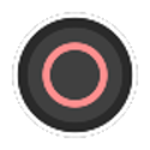
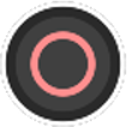
pointers

diff --git a/client/js/raceControls.js b/client/js/raceControls.js
@@ -25,32 +25,32 @@ class RaceControls{
             
             this.accelerationBtn.on('pointerdown', ()=>{
                 player.body.acceleration.setToPolar(player.rotation, 100);
-                this.accelerationBtn.setAlpha(0.5)
+                this.accelerationBtn.setAlpha(0.4)
             })
             this.accelerationBtn.on('pointerup', ()=>{
                 player.setAcceleration(0);
                 player.body.setDrag(0.9);
-                this.accelerationBtn.setAlpha(0.9)
+                this.accelerationBtn.setAlpha(0.7)
             })
             this.accelerationBtn.on('pointerout', ()=>{
                 player.setAcceleration(0);
                 player.body.setDrag(0.9);
-                this.accelerationBtn.setAlpha(0.9)
+                this.accelerationBtn.setAlpha(0.7)
             })
             button2.on('pointerdown', () =>{
                 player.setAcceleration(0)
                 player.body.setDrag(0.3);
-                button2.setAlpha(0.5)
+                button2.setAlpha(0.4)
             })
             button2.on('pointerup', ()=>{
                 player.setAcceleration(0);
                 player.body.setDrag(0.9);
-                button2.setAlpha(0.9)
+                button2.setAlpha(0.7)
             })
             button2.on('pointerout', ()=>{
                 player.setAcceleration(0);
                 player.body.setDrag(0.9);
-                button2.setAlpha(0.9)
+                button2.setAlpha(0.7)
             })
         }else{
 

diff --git a/client/js/singleTimeTrail.js b/client/js/singleTimeTrail.js
@@ -53,8 +53,8 @@ class SingleTimeTrail extends Phaser.Scene{
             })
             this.pointer2= this.input.addPointer()
             this.pointer3= this.input.addPointer()
-            this.accelerationBtn= this.add.image(w-190, h-100, 'singleTimeTrailPs4CrossBtn').setOrigin(0.5).setInteractive().setScrollFactor(0).setAlpha(0.9);
-            this.breakBtn= this.add.image(w-100, h-200, 'singleTimeTrailPs4CircleBtn').setOrigin(0.5).setInteractive().setScrollFactor(0).setAlpha(0.9);
+            this.accelerationBtn= this.add.image(w-190, h-75, 'singleTimeTrailPs4CrossBtn').setOrigin(0.5).setInteractive().setScrollFactor(0).setAlpha(0.7);
+            this.breakBtn= this.add.image(w-80, h-210, 'singleTimeTrailPs4CircleBtn').setOrigin(0.5).setInteractive().setScrollFactor(0).setAlpha(0.7);
         }
         
 

diff --git a/client/js/gameScene.js b/client/js/gameScene.js
@@ -76,8 +76,8 @@ class GameScene extends Phaser.Scene{
                 enable: true
             })
             this.pointer2= this.input.addPointer()
-            this.accelerationBtn= this.add.image(w-190, h-50, 'gameScenePs4CrossBtn').setOrigin(0.5).setInteractive().setScrollFactor(0).setAlpha(0.9);
-            this.breakBtn= this.add.image(w-50, h-200, 'gameScenePs4CircleBtn').setOrigin(0.5).setInteractive().setScrollFactor(0).setAlpha(0.9);
+            this.accelerationBtn= this.add.image(w-190, h-75, 'gameScenePs4CrossBtn').setOrigin(0.5).setInteractive().setScrollFactor(0).setAlpha(0.7);
+            this.breakBtn= this.add.image(w-80, h-210, 'gameScenePs4CircleBtn').setOrigin(0.5).setInteractive().setScrollFactor(0).setAlpha(0.7);
         }
 
         //Create life bar

diff --git a/client/js/game.js b/client/js/game.js
@@ -15,7 +15,7 @@ config={
     physics: {
       default: 'arcade',
       arcade: {
-        debug: false,
+        debug: true,
         gravity: { y: 0 },
       }
     },
